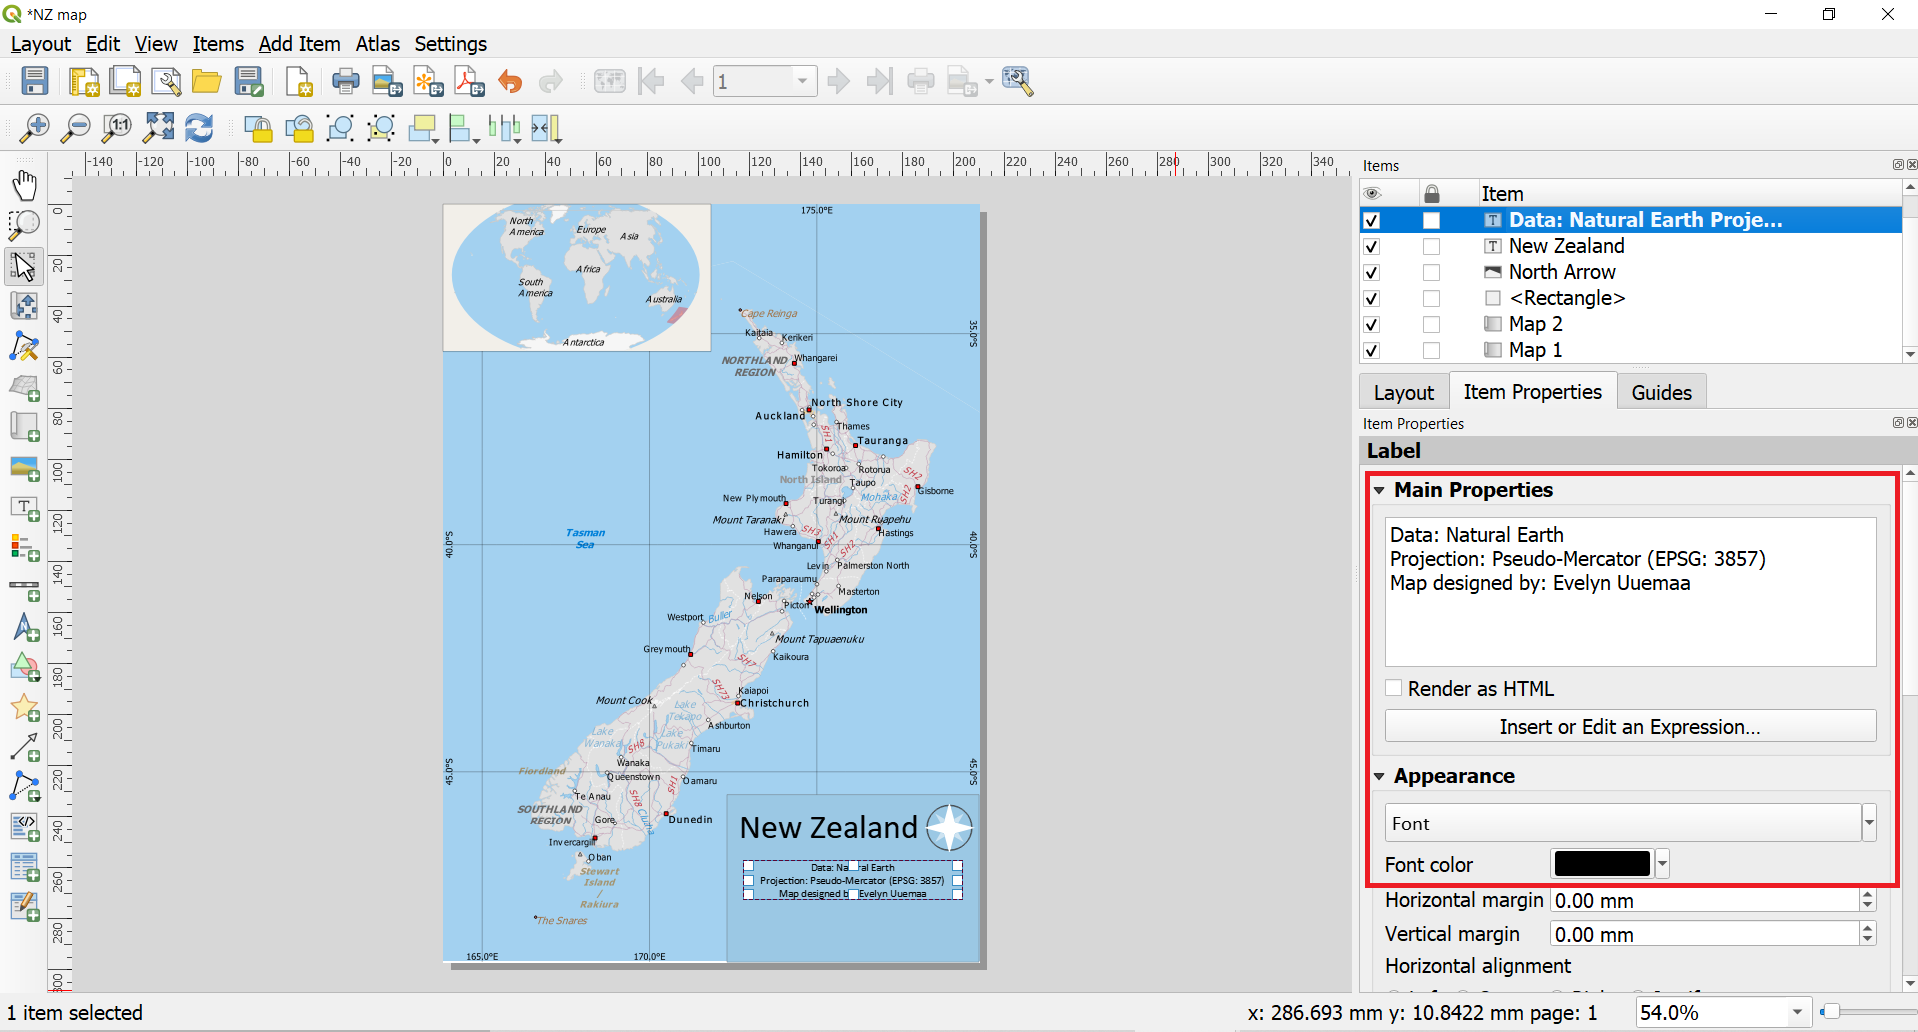
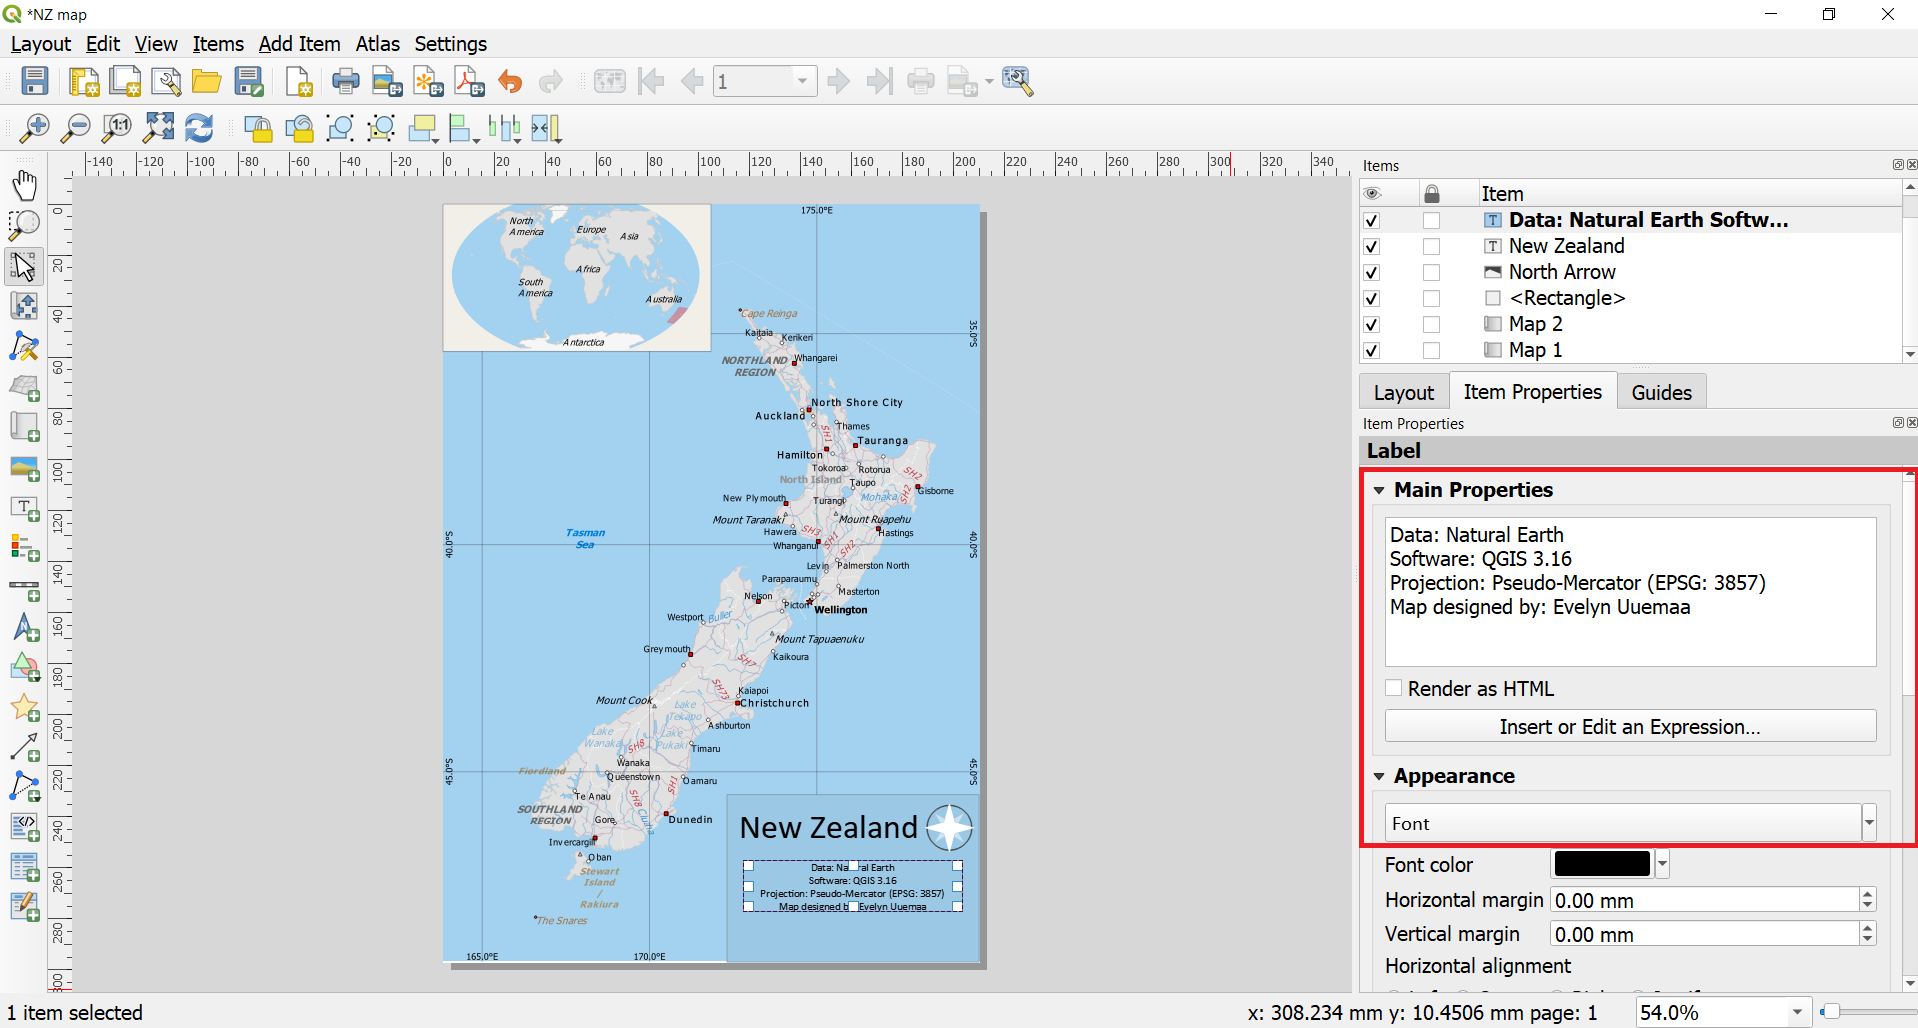
update

diff --git a/_posts/qgis/2020-08-11-making-a-map.md b/_posts/qgis/2020-08-11-making-a-map.md
@@ -79,14 +79,16 @@ Download the [<span style="color:#0564A0">Natural Earth Quickstart Kit</span>](h
 
 25. Add title to your map by `Add Item ► Add Label` or alternatively click ![image of add north arrow](../../images/icon_add label.png). Click on the map and draw a box where the label should be. In the Item Properties tab, expand the Label section and enter a label for the map, and increase the font size and change the font type if needed.
 ![image of add title](../../images/2_add title.png)
-26. Similarly to previous step, add the information about the map projection, credits for the data and map design, and other relevant information to the map.
+26. Similarly to previous step, add the information about the map projection, credits for the data, software and map design.
 ![image of add credits](../../images/2_add credits.png)
-27. Lets add scale bar to the map. Click
+27. Lets add scale bar to the map. Click on `Add Item ► Add Scalebar` or alternatively click on Add Scale Bar ![image of add scale bar](../../images/icon_add scalebar.png). Click on the layout where you want the scalebar to appear. In the Item Properties tab, make sure you have chosen the correct map element <span style="font-family:Consolas">Map 1</span> for which to display the scalebar. Choose the Style that fit your requirement. In the Segments panel, change the Fixed width to <span style="font-family:Consolas">150</span> units and adjust the segments to your liking. It is possible to adjust many properties of the scale bar. Read more about designing and adjusting scale bar properties from [<span style="color:#0564A0">QGIS Documentation</span>](https://docs.qgis.org/3.16/en/docs/user_manual/print_composer/composer_items/composer_scale_bar.html?highlight=scale%20bar#the-scale-bar-item)
+![image of add scale bar](../../images/2_add scale bar.png)
+
 
 For the simplicity, we only add populated places to the legend.
 
 #### 2.5. Exporting map as image
-
+Once you are satisfied with the map, you can export it as an Image, PDF or SVG. For this tutorial, let’s export it as an image. `Click Layout ► Export as Image`.
 
 [^1]: EPSG Geodetic Parameter Dataset (also EPSG registry) is a public registry of geodetic datums, spatial reference systems, Earth ellipsoids, coordinate transformations and related units of measurement.  Each entity is assigned an EPSG code between 1024-32767, along with a standard machine-readable well-known text (WKT) representation. (Wiki) The EPSG codes are unique and they are very useful to use for searching and identifying the CRS-s in GIS programmes.
 [^2]: An inset map is a smaller map featured on the same page as the main map (GIS Wiki)
